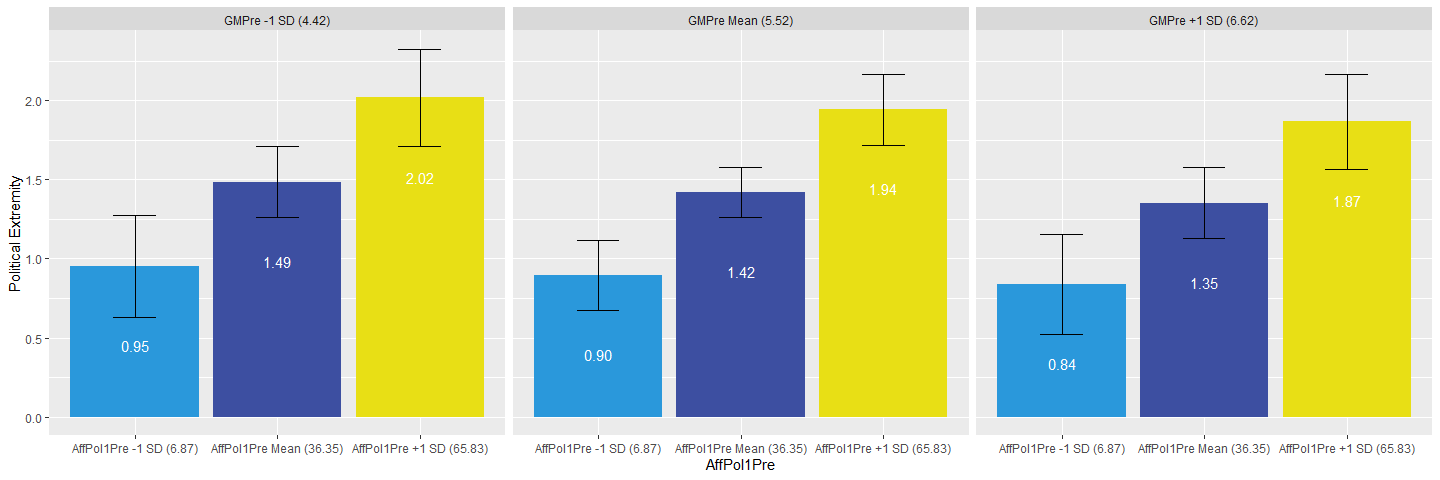
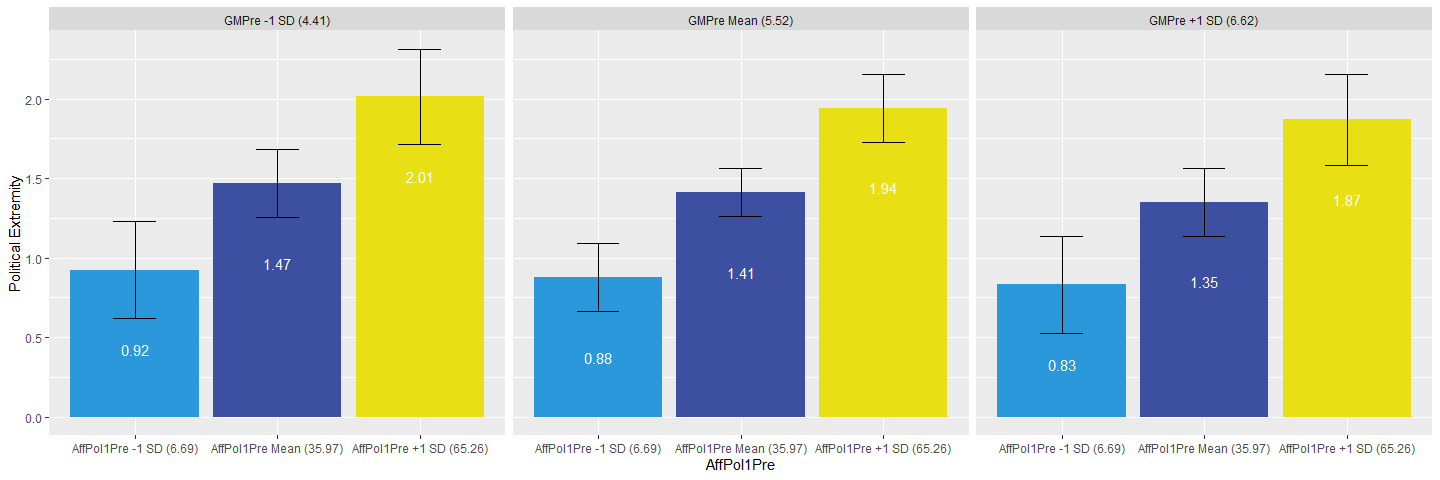
add names to means output

diff --git a/README.md b/README.md
@@ -126,7 +126,7 @@ assessmentv7 <- om_download_at(key,
 
     ## Seting up key
     ## Download AssessmentV7 Data
-    ## Done. AssessmentV7 Data has 813 rows
+    ## Done. AssessmentV7 Data has 844 rows
 
 ## `om_filter_data`
 
@@ -503,9 +503,9 @@ results$model
     ## 
     ## Coefficients:
     ##                        (Intercept)               ppol_catConservatives  
-    ##                             1.7021                              0.2251  
+    ##                             1.7320                              0.1628  
     ##                       genderFemale  ppol_catConservatives:genderFemale  
-    ##                             0.1855                             -0.2764
+    ##                             0.1485                             -0.2068
 
 ### Show a regression table
 
@@ -517,18 +517,18 @@ results$table
     ## ==============================================
     ##                                     Model 1   
     ## ----------------------------------------------
-    ## (Intercept)                           1.70 ***
+    ## (Intercept)                           1.73 ***
     ##                                      (0.07)   
-    ## ppol_catConservatives                 0.23 *  
+    ## ppol_catConservatives                 0.16    
     ##                                      (0.11)   
-    ## genderFemale                          0.19 *  
+    ## genderFemale                          0.15    
     ##                                      (0.08)   
-    ## ppol_catConservatives:genderFemale   -0.28    
+    ## ppol_catConservatives:genderFemale   -0.21    
     ##                                      (0.15)   
     ## ----------------------------------------------
-    ## R^2                                   0.02    
-    ## Adj. R^2                              0.01    
-    ## Num. obs.                           382       
+    ## R^2                                   0.01    
+    ## Adj. R^2                              0.00    
+    ## Num. obs.                           393       
     ## RMSE                                  0.66    
     ## ==============================================
     ## *** p < 0.001, ** p < 0.01, * p < 0.05
@@ -542,11 +542,11 @@ results$report %>%
 
     ## We fitted a linear model (estimated using OLS) to predict ppol_extreme with ppol_cat and gender (formula = ppol_extreme ~ ppol_cat * gender). Standardized parameters were obtained by fitting the model on a standardized version of the dataset. Effect sizes were labelled following Funder's (2019) recommendations.
     ## 
-    ## The model explains a not significant and very weak proportion of variance (R2 = 0.02, F(3, 378) = 2.02, p = 0.110, adj. R2 = 0.01). The model's intercept, corresponding to ppol_extreme = 0, ppol_cat = Progressives and gender = Male, is at 1.70 (SE = 0.07, 95% CI [1.57, 1.84], p < .001). Within this model:
+    ## The model explains a not significant and very weak proportion of variance (R2 = 0.01, F(3, 389) = 1.23, p = 0.299, adj. R2 = 0.00). The model's intercept, corresponding to ppol_extreme = 0, ppol_cat = Progressives and gender = Male, is at 1.73 (SE = 0.07, 95% CI [1.60, 1.86], p < .001). Within this model:
     ## 
-    ##   - The effect of ppol_catConservatives is positive and can be considered as small and significant (beta = 0.23, SE = 0.11, 95% CI [0.01, 0.44], std. beta = 0.34, p < .05).
-    ##   - The effect of genderFemale is positive and can be considered as small and significant (beta = 0.19, SE = 0.08, 95% CI [0.02, 0.35], std. beta = 0.28, p < .05).
-    ##   - The effect of ppol_catConservatives:genderFemale is negative and can be considered as medium and not significant (beta = -0.28, SE = 0.15, 95% CI [-0.57, 0.02], std. beta = -0.42, p = 0.067).
+    ##   - The effect of ppol_catConservatives is positive and can be considered as small and not significant (beta = 0.16, SE = 0.11, 95% CI [-0.05, 0.38], std. beta = 0.25, p = 0.140).
+    ##   - The effect of genderFemale is positive and can be considered as small and not significant (beta = 0.15, SE = 0.08, 95% CI [-0.01, 0.31], std. beta = 0.22, p = 0.074).
+    ##   - The effect of ppol_catConservatives:genderFemale is negative and can be considered as small and not significant (beta = -0.21, SE = 0.15, 95% CI [-0.50, 0.09], std. beta = -0.31, p = 0.168).
 
 ### Show estimated means
 
@@ -557,10 +557,10 @@ results$estimated_means %>%
 
 | col1   | col2          |     Mean |        SE |  CI\_low | CI\_high |
 | :----- | :------------ | -------: | --------: | -------: | -------: |
-| Male   | Progressives  | 1.702128 | 0.0676574 | 1.569096 | 1.835160 |
-| Male   | Conservatives | 1.927273 | 0.0884501 | 1.753357 | 2.101189 |
-| Female | Progressives  | 1.887640 | 0.0491665 | 1.790966 | 1.984315 |
-| Female | Conservatives | 1.836364 | 0.0884501 | 1.662448 | 2.010279 |
+| Male   | Progressives  | 1.731959 | 0.0669827 | 1.600265 | 1.863652 |
+| Male   | Conservatives | 1.894737 | 0.0873799 | 1.722941 | 2.066533 |
+| Female | Progressives  | 1.880435 | 0.0486340 | 1.784816 | 1.976053 |
+| Female | Conservatives | 1.836364 | 0.0889544 | 1.661472 | 2.011255 |
 
 ### Show a plot of the means
 
